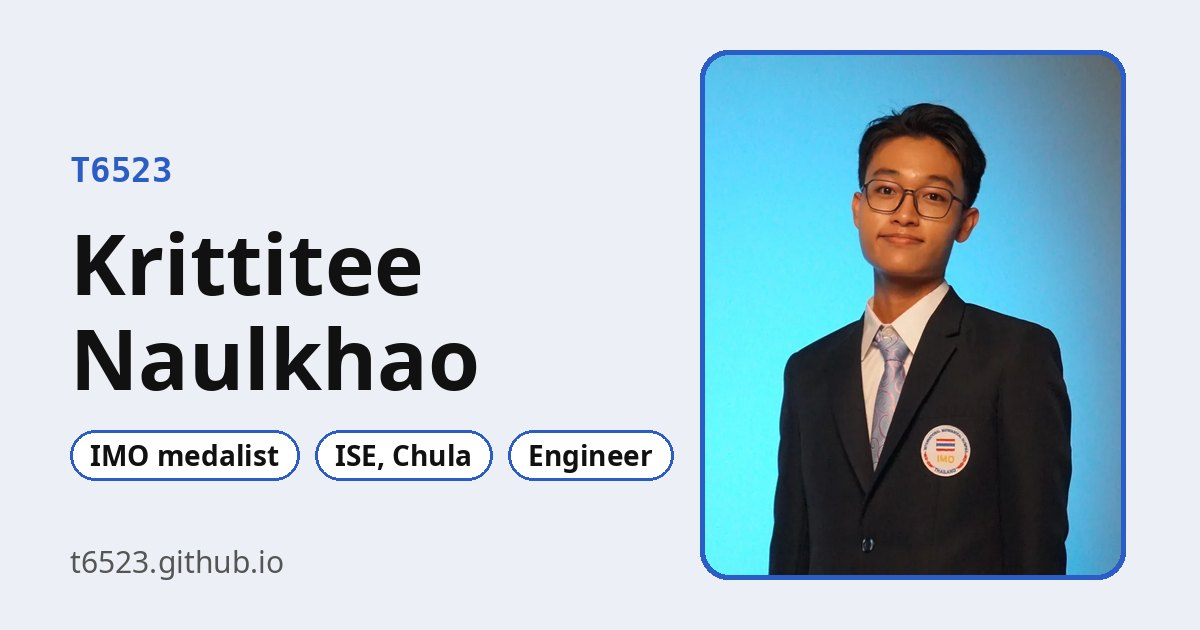
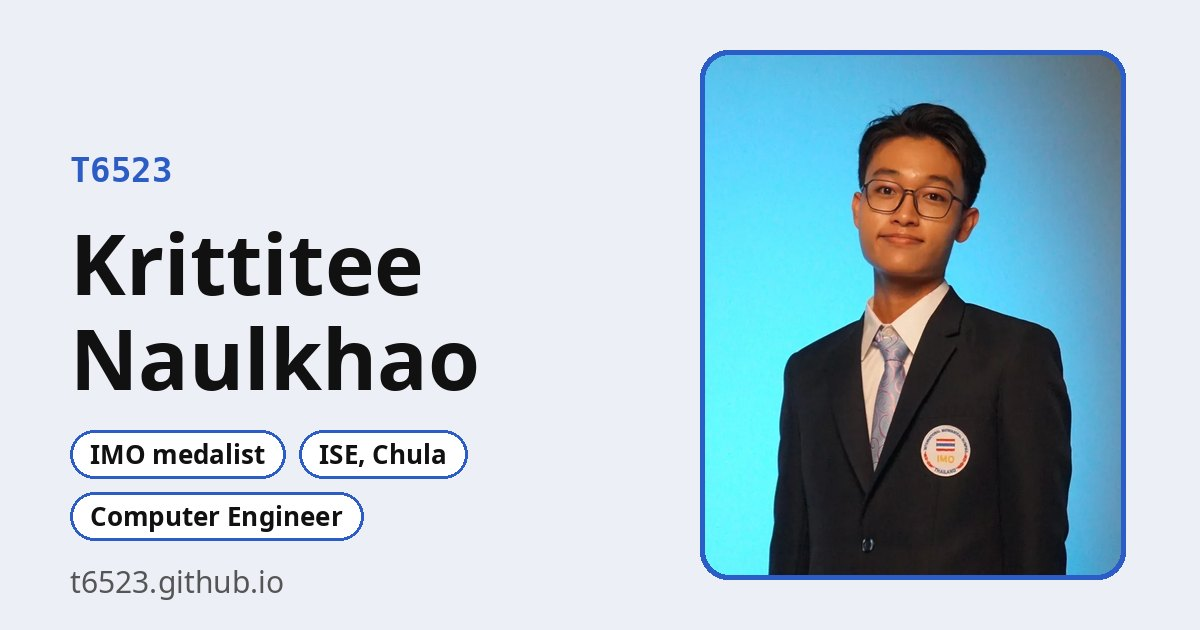
add copy email, improve performance

Changed region(s): [[0.0617, 0.6635, 0.555, 0.9651]]

diff --git a/style.css b/style.css
@@ -4,6 +4,7 @@
   --font: system-ui, -apple-system, "Segoe UI", Roboto, sans-serif;
 }
 * { box-sizing: border-box; }
+html { scrollbar-gutter: stable; } /* no sideways jump when the page grows taller */
 body { margin: 0; background: var(--bg); color: var(--fg); font: 1rem/1.5 var(--font); }
 main { max-width: 960px; margin: 0 auto; padding: 2rem 16px; }
 a { color: var(--link); }
@@ -38,7 +39,6 @@ body.viewing .card:not(.lift):not(:hover) { opacity: .6; }
 .card h3 a { color: var(--fg); text-decoration: none; }
 .card h3 a::after { content: ""; position: absolute; inset: 0; } /* whole card clickable */
 .card p { margin: .5rem 0; }
-.card .outcome { font-weight: 600; }
 .card .chips { margin: .75rem 0; }
 footer { max-width: 960px; margin: 0 auto; padding: 2rem 16px; color: var(--muted); border-top: 1px solid var(--line); }
 @media (min-width: 720px) {
@@ -54,13 +54,10 @@ h2 small { font-weight: 400; color: var(--muted); }
 .tiles { grid-column: 1 / -1; }
 @media (min-width: 720px) { .hero { grid-template-columns: 280px 1fr; gap: 2.5rem; } }
 
-/* photo with rotating gradient ring, gentle float */
-.photo-ring { width: 200px; padding: 5px; border-radius: 24px; background: conic-gradient(from var(--a, 0deg), #2c5cc5, #9db8ec, #2c5cc5); animation: spin 6s linear infinite, float 5s ease-in-out infinite; }
+/* photo with a solid accent ring */
+.photo-ring { width: 200px; padding: 5px; border-radius: 24px; background: var(--accent); }
 .photo { display: block; width: 100%; height: auto; aspect-ratio: 4 / 5; object-fit: cover; border-radius: 20px; background: var(--line); }
 @media (min-width: 720px) { .photo-ring { width: 280px; } }
-@property --a { syntax: "<angle>"; inherits: false; initial-value: 0deg; }
-@keyframes spin { to { --a: 360deg; } }
-@keyframes float { 50% { transform: translateY(-8px); } }
 
 /* handle: T6523 <-> Tee scramble loop */
 .handle { font: 700 1.1rem/1 ui-monospace, "SF Mono", Menlo, Consolas, monospace; color: var(--link); margin: 0 0 .5rem; }
@@ -69,7 +66,7 @@ h2 small { font-weight: 400; color: var(--muted); }
 
 /* name: letters are inline-blocks so each can jump on hover (JS) */
 #name .ch { display: inline-block; white-space: pre; cursor: default; }
-@media (prefers-reduced-motion: reduce) { .photo-ring { animation: none; } .handle span::after { content: none; } }
+@media (prefers-reduced-motion: reduce) { .handle span::after { content: none; } }
 #name .word { display: inline-block; white-space: nowrap; }
 
 /* in-page project viewer */
@@ -172,3 +169,8 @@ footer p { margin: .75rem 0 0; }
 /* footer email + copy */
 .foot-mail { margin: .75rem 0 0; }
 .sr-only { position: absolute; width: 1px; height: 1px; overflow: hidden; clip: rect(0 0 0 0); white-space: nowrap; }
+
+/* reserve space for the JS-rendered tiles and cards so the page does not jump while loading */
+.tiles { min-height: 320px; }
+.cards { min-height: 1900px; }
+@media (min-width: 720px) { .tiles { min-height: 125px; } .cards { min-height: 1060px; } }

diff --git a/main.js b/main.js
@@ -13,19 +13,22 @@
   document.getElementById('resume-close').addEventListener('click', () => rd.close());
   rd.addEventListener('click', e => { if (e.target === rd) rd.close(); }); // backdrop click
 
-  // footer: copy email address
-  const cm = document.getElementById('copy-mail');
-  cm.hidden = false;
-  cm.addEventListener('click', async () => {
-    const mail = 'krittitee.n07@gmail.com';
-    try { await navigator.clipboard.writeText(mail); } catch {
-      const t = Object.assign(document.createElement('textarea'), { value: mail });
+  // copy text to the clipboard, then flash "Copied!" on the button that asked
+  const copyText = async (text, btn) => {
+    try { await navigator.clipboard.writeText(text); } catch {
+      const t = Object.assign(document.createElement('textarea'), { value: text });
       document.body.append(t); t.select(); document.execCommand('copy'); t.remove();
     }
-    cm.textContent = 'Copied!';
+    const label = btn.dataset.label ||= btn.textContent;
+    btn.textContent = 'Copied!';
     document.getElementById('copy-note').textContent = 'Email address copied';
-    setTimeout(() => { cm.textContent = 'Copy'; document.getElementById('copy-note').textContent = ''; }, 1800);
-  });
+    setTimeout(() => { btn.textContent = label; document.getElementById('copy-note').textContent = ''; }, 1800);
+  };
+  const MAIL = 'krittitee.n07@gmail.com';
+  const cm = document.getElementById('copy-mail');
+  cm.hidden = false;
+  cm.addEventListener('click', () => copyText(MAIL, cm));
+  document.getElementById('leave-copy').addEventListener('click', e => copyText(MAIL, e.currentTarget));
 
   const u = document.getElementById('updated');
   u.textContent = u.dateTime = site.lastUpdated;
@@ -44,10 +47,9 @@
 
   document.getElementById('cards').innerHTML = projects.map((p, i) => `
     <article class="card" id="${esc(p.slug)}">
-      ${p.image ? `<img class="thumb" src="${esc(p.image)}" width="720" height="450" loading="lazy" alt="Screenshot of the ${esc(p.title)} page">` : ''}
+      ${p.image ? `<img class="thumb" src="${esc(p.image)}" width="720" height="450" loading="${i < 2 ? 'eager' : 'lazy'}" alt="Screenshot of the ${esc(p.title)} page">` : ''}
       <h3>${num(i)}<a href="${esc(p.url)}">${esc(p.title)}</a></h3>
       <p class="outcome">${esc(p.outcome)}</p>
-      <p>${esc(p.snippet)}</p>
       <ul class="chips">${p.tags.map(t => `<li>${esc(t)}</li>`).join('')}</ul>
       <span class="more" aria-hidden="true">View project <b>→</b></span>
     </article>`).join('');
@@ -89,6 +91,7 @@
       Object.assign(document.createElement('strong'), { textContent: who }),
       mail ? '.' : ' and leave this page.');
     document.getElementById('leave-url').textContent = mail ? '' : a.href;
+    document.getElementById('leave-copy').hidden = !mail;
     dlg.returnValue = '';
     dlg.onclose = () => { if (dlg.returnValue === 'go') location.href = a.href; };
     dlg.showModal();

diff --git a/data.js b/data.js
@@ -5,8 +5,7 @@ window.PROJECTS = [
     slug: "dqn-minesweeper-solver",
     title: "DQN Minesweeper Solver",
     metric: { value: "0.47", label: "turns from exact solver" },
-    outcome: "Double DQN within 0.47 turns of an exact solver on two-player Minesweeper.",
-    snippet: "Double DQN written from scratch in PyTorch, exported to ONNX and run in the browser.",
+    outcome: "Double DQN written from scratch in PyTorch, within 0.47 turns of an exact solver on two-player Minesweeper. Runs in the browser via ONNX.",
     tags: ["Python", "PyTorch", "ONNX", "Reinforcement learning"],
     url: "https://t6523.github.io/dqn-minesweeper-solver/",
     image: "thumb-dqn-minesweeper-solver.webp"
@@ -15,8 +14,7 @@ window.PROJECTS = [
     slug: "ab-test-toolkit",
     title: "A/B Test Toolkit",
     metric: { value: "19.2%", label: "false positives from peeking, cut to 5% by sequential tests" },
-    outcome: "Simulation shows peeking at 10 looks inflates false positives from 5% to 19.2%; sequential boundaries hold them at 4.8–5.0%.",
-    snippet: "Sample size, confidence intervals and launch verdicts, checked by Monte Carlo simulation. Runs in the browser via Pyodide.",
+    outcome: "In-browser A/B test planner and analyzer. Simulation: peeking raises false positives from 5% to 19.2%; sequential boundaries hold them near 5%.",
     tags: ["Python", "NumPy", "SciPy", "Pyodide"],
     url: "https://t6523.github.io/ab-test-toolkit/",
     image: "thumb-ab-test-toolkit.webp"
@@ -25,8 +23,7 @@ window.PROJECTS = [
     slug: "bangkok-airbnb-pricing",
     title: "Bangkok Airbnb Pricing",
     metric: { value: "666 THB", label: "MAE vs 804 linear baseline" },
-    outcome: "666 THB MAE vs 804 for linear regression on unseen hosts.",
-    snippet: "DuckDB SQL feature engineering and a tuned boosted-tree ensemble in a Docker pipeline, with an in-browser price estimator.",
+    outcome: "Bangkok Airbnb price model: 666 THB MAE vs 804 for linear regression on unseen hosts, with DuckDB features and an in-browser estimator.",
     tags: ["Python", "DuckDB", "Gradient boosting", "Docker"],
     url: "https://t6523.github.io/bangkok-airbnb-pricing/",
     image: "thumb-bangkok-airbnb-pricing.webp"
@@ -35,8 +32,7 @@ window.PROJECTS = [
     slug: "predictive_keyboard",
     title: "Predictive Keyboard",
     metric: { value: "78.6%", label: "next-word accuracy" },
-    outcome: "78.6% next-word accuracy from a LoRA-tuned Qwen2.5-3B, Mistral-7B and KenLM blend.",
-    snippet: "Predicts the next word from context plus the first letter typed. Includes an in-browser n-gram demo.",
+    outcome: "Next-word prediction from context and first letter: 78.6% accuracy from a LoRA-tuned Qwen2.5-3B, Mistral-7B and KenLM blend.",
     tags: ["Python", "LoRA", "KenLM", "NLP"],
     url: "https://t6523.github.io/predictive_keyboard/",
     image: "thumb-predictive_keyboard.webp"

diff --git a/index.html b/index.html
@@ -3,10 +3,10 @@
 <head>
   <meta charset="utf-8">
   <meta name="viewport" content="width=device-width, initial-scale=1">
-  <title>Krittitee Naulkhao — Portfolio</title>
-  <meta name="description" content="Krittitee Naulkhao (Tee): IMO medalist, ISE at Chula, engineer.">
-  <meta property="og:title" content="Krittitee Naulkhao — Portfolio">
-  <meta property="og:description" content="Krittitee Naulkhao (Tee): IMO medalist, ISE at Chula, engineer.">
+  <title>Krittitee Naulkhao | Portfolio</title>
+  <meta name="description" content="Krittitee Naulkhao (Tee): IMO medalist, ISE at Chula, computer engineer.">
+  <meta property="og:title" content="Krittitee Naulkhao | Portfolio">
+  <meta property="og:description" content="Krittitee Naulkhao (Tee): IMO medalist, ISE at Chula, computer engineer.">
   <meta property="og:type" content="website">
   <meta property="og:url" content="https://t6523.github.io/">
   <meta property="og:image" content="https://t6523.github.io/og.jpg">
@@ -16,10 +16,10 @@
   <meta name="color-scheme" content="light dark">
   <link rel="icon" href="favicon-32.png" type="image/png" sizes="32x32">
   <link rel="apple-touch-icon" href="apple-touch-icon.png">
-  <link rel="stylesheet" href="style.css?v=10">
+  <link rel="stylesheet" href="style.css?v=13">
   <script src="https://cdn.jsdelivr.net/npm/gsap@3.12.5/dist/gsap.min.js" defer></script>
-  <script src="data.js?v=10" defer></script>
-  <script src="main.js?v=7" defer></script>
+  <script src="data.js?v=12" defer></script>
+  <script src="main.js?v=14" defer></script>
 </head>
 <body>
   <main>
@@ -33,7 +33,7 @@
         <ul class="chips">
           <li>IMO medalist</li>
           <li>ISE, Chula</li>
-          <li>Engineer</li>
+          <li>Computer Engineer</li>
         </ul>
         <div class="cta">
           <div class="resume-actions">
@@ -92,6 +92,7 @@
     <p id="leave-msg"></p>
     <p id="leave-url"></p>
     <form method="dialog" class="actions">
+      <button type="button" id="leave-copy" hidden>Copy address</button>
       <button value="cancel">Stay here</button>
       <button value="go" class="go">Continue</button>
     </form>
